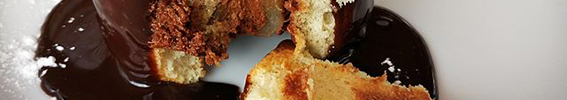
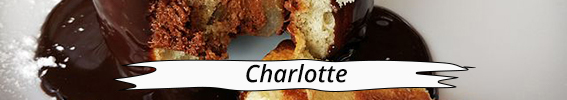
Link aggiornati
Modificate le immagini del link e aggiunti i nomi nei commenti del main

Changed region(s): [[0.1799, 0.57, 0.8395, 0.93]]

diff --git a/main.html b/main.html
@@ -55,26 +55,26 @@
 	<div class="row" id="page1">
 		<div class="col-xs-3" id="link">
       <dl>
-        <dt id="list"><a href=""><img src="img\link\charlotte1.jpg" id="imglist" alt=""></a></dt>
-        <dt id="list"><a href=""><img src="img\link\coco2.jpg" id="imglist" alt=""></a></dt>
-        <dt id="list"><a href=""><img src="img\link\maca3.jpg" id="imglist" alt=""></a></dt>
-        <dt id="list"><a href=""><img src="img\link\tart4.jpg" id="imglist" alt=""></a></dt>
-        <dt id="list"><a href=""><img src="img\link\crem5.jpg" id="imglist" alt=""></a></dt>
-        <dt id="list"><a href=""><img src="img\link\choco6.jpg" id="imglist" alt=""></a></dt>
-        <dt id="list"><a href=""><img src="img\link\cust7.jpg" id="imglist" alt=""></a></dt>
-        <dt id="list"><a href=""><img src="img\link\cali8.jpg" id="imglist" alt=""></a></dt>
-        <dt id="list"><a href=""><img src="img\link\ceri9.jpg" id="imglist" alt=""></a></dt>
-        <dt id="list"><a href=""><img src="img\link\claf10.jpg" id="imglist" alt=""></a></dt>
-        <dt id="list"><a href=""><img src="img\link\egg11.jpg" id="imglist" alt=""></a></dt>
-        <dt id="list"><a href=""><img src="img\link\nog12.jpg" id="imglist" alt=""></a></dt>
-        <dt id="list"><a href=""><img src="img\link\norm13.jpg" id="imglist" alt=""></a></dt>
-        <dt id="list"><a href=""><img src="img\link\croq14.jpg" id="imglist" alt=""></a></dt>
-        <dt id="list"><a href=""><img src="img\link\mend15.jpg" id="imglist" alt=""></a></dt>
-        <dt id="list"><a href=""><img src="img\link\poir16.jpg" id="imglist" alt=""></a></dt>
-        <dt id="list"><a href=""><img src="img\link\brul17.jpg" id="imglist" alt=""></a></dt>
-        <dt id="list"><a href=""><img src="img\link\buch18.jpg" id="imglist" alt=""></a></dt>
-        <dt id="list"><a href=""><img src="img\link\uju19.jpg" id="imglist" alt=""></a></dt>
-        <dt id="list"><a href=""><img src="img\link\conve20.jpg" id="imglist" alt=""></a></dt>
+        <dt id="list"><a href=""><img src="img\link\charlotte1.jpg" id="imglist" alt=""></a></dt><!--Charlotte -->
+        <dt id="list"><a href=""><img src="img\link\coco2.jpg" id="imglist" alt=""></a></dt><!--Coconut cake -->
+        <dt id="list"><a href=""><img src="img\link\maca3.jpg" id="imglist" alt=""></a></dt><!--Macaron -->
+        <dt id="list"><a href=""><img src="img\link\opera4.jpg" id="imglist" alt=""></a></dt><!--Opera cake -->
+        <dt id="list"><a href=""><img src="img\link\profi5.jpg" id="imglist" alt=""></a></dt><!--Profiterole -->
+        <dt id="list"><a href=""><img src="img\link\mou6.jpg" id="imglist" alt=""></a></dt><!--Mousse -->
+        <dt id="list"><a href=""><img src="img\link\pot7.jpg" id="imglist" alt=""></a></dt><!--Pot de creme -->
+        <dt id="list"><a href=""><img src="img\link\cali8.jpg" id="imglist" alt=""></a></dt><!--Calisson -->
+        <dt id="list"><a href=""><img src="img\link\claf9.jpg" id="imglist" alt=""></a></dt><!--Clafoutis -->
+        <dt id="list"><a href=""><img src="img\link\flau10.jpg" id="imglist" alt=""></a></dt><!--Flaugnarde -->
+        <dt id="list"><a href=""><img src="img\link\cust11.jpg" id="imglist" alt=""></a></dt><!--Custard Tart -->
+        <dt id="list"><a href=""><img src="img\link\marj12.jpg" id="imglist" alt=""></a></dt><!--Marjolaine -->
+        <dt id="list"><a href=""><img src="img\link\norm13.jpg" id="imglist" alt=""></a></dt><!--Norman Tart -->
+        <dt id="list"><a href=""><img src="img\link\croq14.jpg" id="imglist" alt=""></a></dt><!--Croquembouche -->
+        <dt id="list"><a href=""><img src="img\link\mend15.jpg" id="imglist" alt=""></a></dt><!--Mendiant -->
+        <dt id="list"><a href=""><img src="img\link\poir16.jpg" id="imglist" alt=""></a></dt><!--Poire belle Helene -->
+        <dt id="list"><a href=""><img src="img\link\crem17.jpg" id="imglist" alt=""></a></dt><!--Creme brule -->
+        <dt id="list"><a href=""><img src="img\link\yul18.jpg" id="imglist" alt=""></a></dt><!--Yule log -->
+        <dt id="list"><a href=""><img src="img\link\floa19.jpg" id="imglist" alt=""></a></dt><!--Floating Island -->
+        <dt id="list"><a href=""><img src="img\link\conv20.jpg" id="imglist" alt=""></a></dt><!--Conversation Tart -->
       </dl>
     </div><!--#link-->	
 	  	<div class="col-xs-9" id="bio">Usare il termine pasticcini o piccola pasticceria per parlare 
